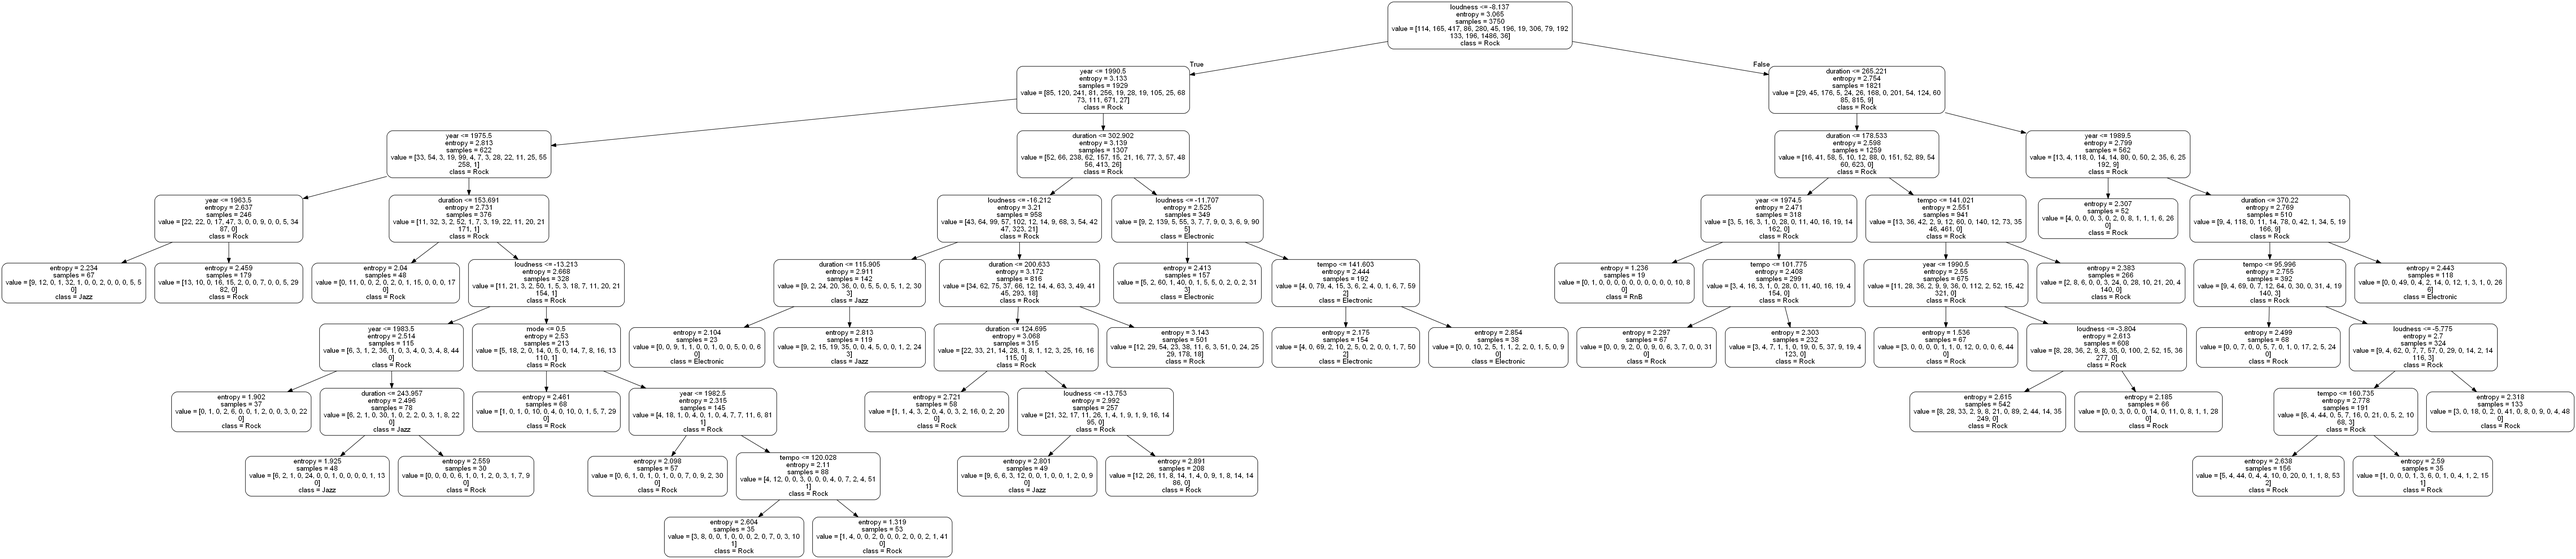
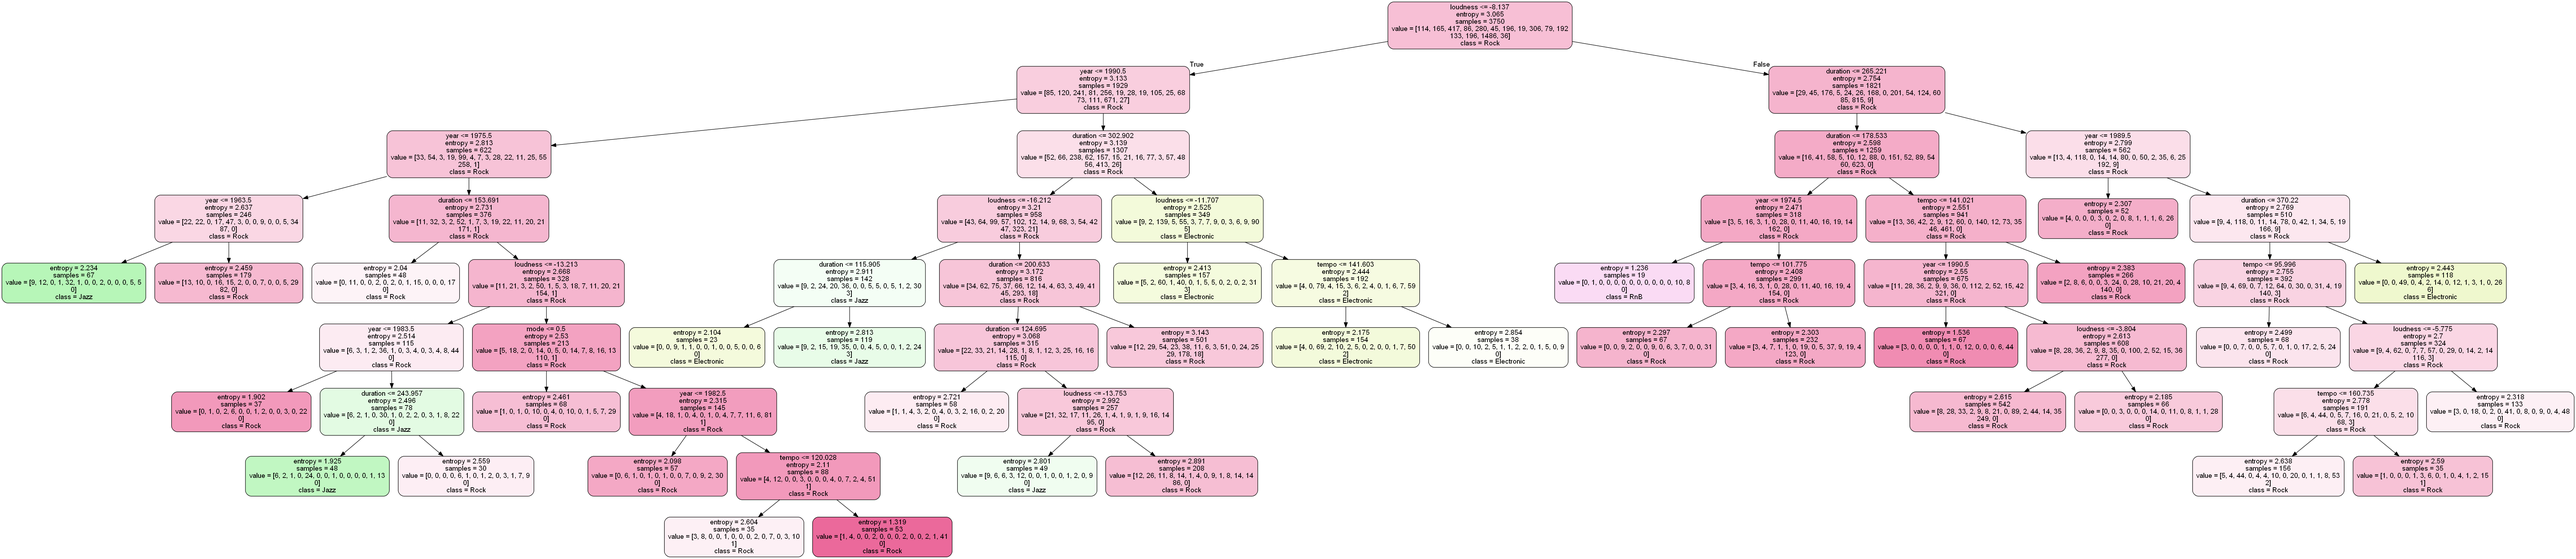
Updated Color Scheme of Tree

diff --git a/supervisedLearning/saveDecisionTreeImages.py b/supervisedLearning/saveDecisionTreeImages.py
@@ -8,7 +8,7 @@ import numpy as np
 import pydotplus
 import collections
 
-def saveGraph(clf, filename, max_depth=None, suppressPrinting=False):
+def saveGraph(clf, filename, max_depth=None, suppressPrinting=False, recolor=False):
 # Can use max_depth to better visualize all data
     dot_data = export_graphviz(clf,
                                 feature_names=importantFeatures,
@@ -21,24 +21,25 @@ def saveGraph(clf, filename, max_depth=None, suppressPrinting=False):
     
     #Using pydotplus
     graph = pydotplus.graph_from_dot_data(dot_data)
-    nodes = graph.get_node_list()
+    if recolor:
+        nodes = graph.get_node_list()
+        #Create list of unique colors for each genre
+        colors = ('red', 'green', 'blue', 'orange', 'yellow', 'fuchsia', 'green', 'lightseagreen', 'silver', 'coral', 'lightpink', 'mediumpurple','lightsteelblue','mediumvioletred','peachpuff','thistle', 'white')
 
-    #Create list of unique colors for each genre
-    colors = ('red', 'green', 'blue', 'orange', 'yellow', 'fuchsia', 'green', 'lightseagreen', 'silver', 'coral', 'lightpink', 'mediumpurple','lightsteelblue','mediumvioletred','peachpuff','thistle', 'white')
-
-    for node in nodes:
-        if node.get_name() not in ('node', 'edge'):
-            values = clf.tree_.value[int(node.get_name())][0]
-            #color only nodes where only one class is present
-            if max(values) == sum(values):    
+        for node in nodes:
+            if node.get_name() not in ('node', 'edge'):
+                values = clf.tree_.value[int(node.get_name())][0]
+                #color only nodes where only one class is present
                 node.set_fillcolor(colors[np.argmax(values)])
-            #mixed nodes get the default color
-            else:
-                #If not a leaf node, color white
-                node.set_fillcolor(colors[-1])
+                # if max(values) == sum(values):    
+                #     node.set_fillcolor(colors[np.argmax(values)])
+                # #mixed nodes get the default color
+                # else:
+                #     #If not a leaf node, color white
+                #     node.set_fillcolor(colors[-1])
 
     graph.write_png(filename)
-    if (not suppressPrinting):
+    if (not suppressPrinting) and (recolor):
         print("i, Colors, and Genre")
         for i in range(len(uniqueGenres)):
             print("\ti = {}, Color = {}, Genre = {}".format(i, colors[i], uniqueGenres[i]))
@@ -67,10 +68,12 @@ if __name__ == "__main__":
         print("Directory already exists")
     #Switch to new directory
     os.chdir(os.path.join(os.getcwd(), "AllDecisionTrees"))
-    for i in range(optimal_clf.get_depth()):
-        i = i + 1
-        print("Making graph for n={}".format(i), end="\r")
-        filename = "n={}_OptimalDecisionTree.png".format(i)
-        saveGraph(optimal_clf, filename, max_depth=i, suppressPrinting = True)
+    filename = "trainingOnMultipleFeatures_PCA_LargeTree_Pruned.png"
+    saveGraph(optimal_clf, filename, max_depth=None, suppressPrinting = True)
+    # for i in range(optimal_clf.get_depth()):
+    #     i = i + 1
+    #     print("Making graph for n={}".format(i), end="\r")
+    #     filename = "n={}_OptimalDecisionTree.png".format(i)
+    #     saveGraph(optimal_clf, filename, max_depth=i, suppressPrinting = True)
 
     
